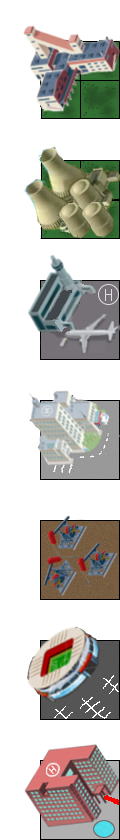
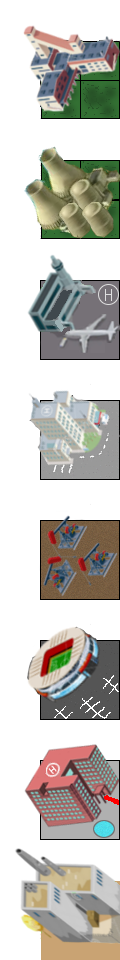
přidána budova

diff --git a/files/game/funkce.js b/files/game/funkce.js
@@ -332,6 +332,7 @@ function newmenu(ktere)
 			string += "<li><img onClick='activeitem=0;activetype=2;' src=\"./game/img/miniatury/dul.png\" title='"+ nazvy[2][0] + " $" + ceny[2][0] +"'></li>";
 			string += "<li><img onClick='activeitem=1;activetype=2;' src=\"./game/img/miniatury/elektrarna.png\" title='"+ nazvy[2][1] + " $" + ceny[2][1] +"'></li>";
 			string += "<li><img onClick='activeitem=4;activetype=2;' src=\"./game/img/miniatury/ropnepole.png\" title='"+ nazvy[2][4] + " $" + ceny[2][4] +"'></li>";
+            string += "<li><img onClick='activeitem=7;activetype=2;' src=\"./game/img/miniatury/recycle.png\" title='"+ nazvy[2][7] + " $" + ceny[2][7] +"'></li>";
 			document.getElementById("secondmenu").innerHTML = string;
 		break;
 		

diff --git a/files/game/itemy.js b/files/game/itemy.js
@@ -102,7 +102,9 @@ nazvy[2][6] = "Luxusní hotel";
 ceny[2][6] = 60845;
 kapacita2[6] = 384;
 
-
+nazvy[2][7] = "Recyklační centrum";
+ceny[2][7] = 350845;
+kapacita2[7] = 0;
 
 
 var Item = function(x,typ) {
